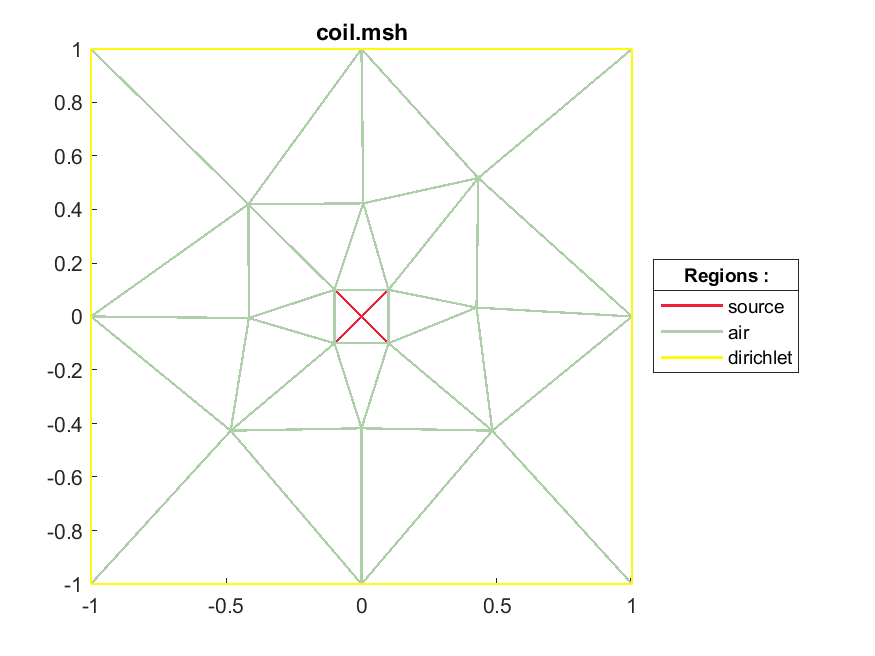
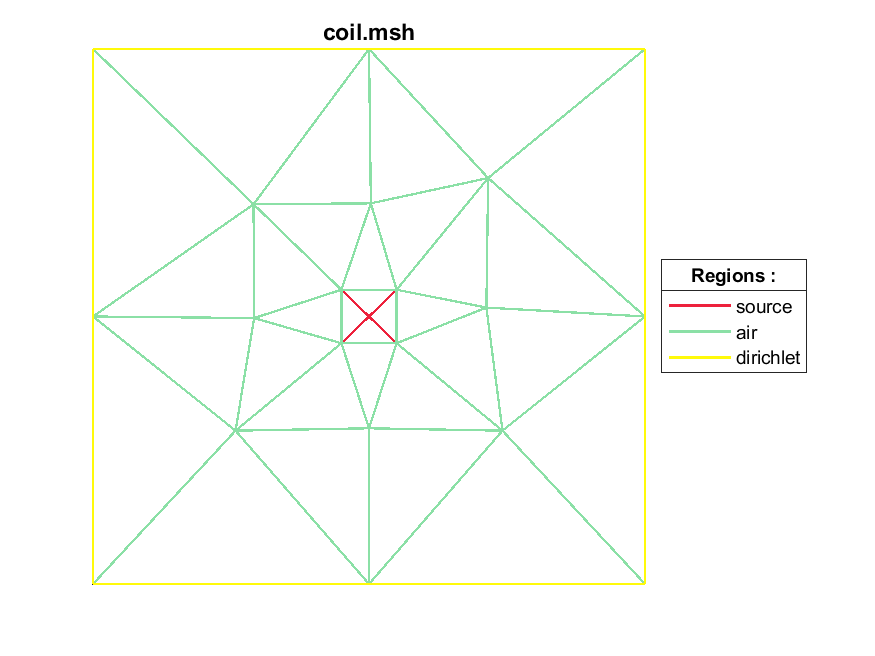
color & display_potential

diff --git a/matlab_scripts/main_functions/assemble.m b/matlab_scripts/main_functions/assemble.m
@@ -1,10 +1,14 @@
 function assemble(file_name)
+% After calling this function elements.K and elements.R have the right
+% dimension. Not done previously to have easier indexing.
+%
+
 disp('-Assembling solution matrix and calculating solution ...')
 tic
 respth = ['.\results\', file_name];
-load(respth)
+load(respth, 'elements', 'regions_c', 'n_nodes', 'n_elements')
 
-K = sparse(n_nodes, n_nodes);
+K = spalloc(n_nodes, n_nodes, 6*n_nodes);
 R = zeros(n_nodes,1);
 
 i_elem = 1;
@@ -19,6 +23,9 @@ for i_el=i_elem:n_elements
     
     K(i_N, i_N) = K(i_N, i_N) + elements(i_el).K(i_n, i_n);
     R(i_N) = R(i_N) + elements(i_el).R(i_n);
+    
+    elements(i_el).K = elements(i_el).K(i_n, i_n);
+    elements(i_el).R = elements(i_el).R(i_n);
     
 end
 
@@ -38,11 +45,11 @@ U(u_unknown) = U_unknown;
 U(u_known) = U_known;
 
 figure;surface(1:size(K,1),size(K,1):-1:1,K,K);colormap(bluewhitered);shading flat 
-eigenvals = eigs(K);
+eigenvals = eig(full(K)); % to be fixed
 condition_number = max(abs(eigenvals))/min(abs(eigenvals));
 disp(['Condition Number: ',num2str(condition_number)]);
 
-save(respth, 'U', 'K', 'R','condition_number', '-append'); 
+save(respth, 'elements', 'U', 'K', 'R', 'condition_number', '-append'); 
 
 disp(['  Finished (Elapsed time : ', num2str(toc) ' s)'])
 end

diff --git a/matlab_scripts/classes/Regions.m b/matlab_scripts/classes/Regions.m
@@ -8,6 +8,7 @@ classdef Regions
         predef_colors =  {[255, 250, 10], [22, 95, 229], [237, 33, 60]};
         colors = containers.Map('KeyType', 'char', 'ValueType', 'any');
         dir_codes = [];
+        colrs = [61, 210, 1, 32]
     end
     
     methods
@@ -46,6 +47,7 @@ classdef Regions
         function obj = fill_color_map(obj)
             n_keys = length(obj.regs);
             keys_c = keys(obj.regs);
+            i_clr = 1;
             for i_key = 1:n_keys
                 clr_set = 0;
                 for i_pred = 1:3
@@ -55,7 +57,8 @@ classdef Regions
                     end
                 end
                 if(~clr_set)
-                    obj.colors(keys_c{i_key}) = clr()/255;
+                    obj.colors(keys_c{i_key}) = clr(obj.colrs(i_clr))/255;
+                    i_clr = i_clr + 1;
                 end
             end
         end

diff --git a/matlab_scripts/main_functions/display_mesh.m b/matlab_scripts/main_functions/display_mesh.m
@@ -3,7 +3,8 @@ function display_mesh(file_name, do_print)
 plt_pth = '.\plots\';
 if(nargin < 2 || isempty(do_print)), do_print = 0; end
 
-load(['.\results\', file_name])
+respth = ['.\results\', file_name];
+load(respth)
 lgnd = cell(n_regions, 1);
 legend_pick = gobjects(size(lgnd));
 
@@ -58,6 +59,7 @@ title([file_name, '.msh'], 'interpreter', 'none')
 lgd = legend(legend_pick(1:i_lgnd-1), lgnd(1:i_lgnd-1),...
     'location', 'eastoutside', 'interpreter', 'none');
 title(lgd, 'Regions : ')
+set(gca,'YTick',[], 'XTick',[]);
 if(do_print)
     if(exist(plt_pth, 'dir') ~= 7)
         mkdir(plt_pth)
@@ -65,5 +67,6 @@ if(do_print)
     print([plt_pth, file_name, '_mesh'], '-dpng')
 end
 
+save(respth, 'triangles', 'lines', '-append')
 
 

diff --git a/matlab_scripts/main_functions/set_up_elements.m b/matlab_scripts/main_functions/set_up_elements.m
@@ -3,7 +3,8 @@ function set_up_elements(file_name)
 disp('-Calculating element matrices ...')
 tic
 respth = ['.\results\', file_name];
-load(respth)
+load(respth, 'elements', 'regions_c', 'n_nodes', 'n_elements',...
+    'nodes', 'nodes_prop', 'element_r')
 
 i_elem = 1;
 while(elements(i_elem).type == 1)
@@ -17,9 +18,7 @@ for i_el = i_elem:n_elements
         regions_c, element_r(i_el));
 end
 
-save(respth, 'regions', 'nodes', 'elements',...
-    'n_regions', 'n_nodes', 'n_elements', 'element_r', ...
-    'nodes_prop', 'n_sys', 'regions_c');
+save(respth, 'elements', '-append');
 
 disp(['  Finished (Elapsed time : ', num2str(toc) ' s)'])
 end

diff --git a/matlab_scripts/solver_functions/calc_element_RK.m b/matlab_scripts/solver_functions/calc_element_RK.m
@@ -1,6 +1,6 @@
 function [K,R,U,n] = calc_element_RK(nodes, nodes_prop, element, regions_c, elem_tag)
 
-mu_0 = 1257e-9;
+mu_0 = 1.2566e-06;
 kmn = @(k, b, c) k(1)*b(1)*b(2) + k(2)*c(1)*c(2);
 rm = @(f,A) f*A/3;
 
@@ -8,10 +8,10 @@ rm = @(f,A) f*A/3;
 
 if(regions_c.is_source(elem_tag)) %if region is source
     f = regions_c.get_param(elem_tag); % Stromdichte J
-    k1 = mu_0; % \mu of copper of source
+    k1 = 1/mu_0; % \mu of copper of source
 else
     f = 0;
-    k1 = regions_c.get_param(elem_tag);
+    k1 = 1/(regions_c.get_param(elem_tag)*mu_0); % 1/(mu_r * mu_0)
 end
 %k1 = 1/k1; % to get reluctance from \mu
 k = [k1 k1];

diff --git a/matlab_scripts/helper_functions/clr.m b/matlab_scripts/helper_functions/clr.m
@@ -64,6 +64,7 @@ function [varargout] = clr(varargin)
    
 % color list
 color_list = {  ...  
+166, 232, 250, 'bleu';
 200, 186, 128, 'green_beige';
 206, 177, 129, 'pale_beige';
 210, 173, 107, 'sand_yellow';
@@ -123,6 +124,7 @@ color_list = {  ...
 059, 059, 049, 'grey_olive';
 046, 055, 037, 'bottle_green';
 049, 047, 032, 'green';
+139, 224, 166, 'best_green';
 036, 052, 039, 'fir_green';
 065, 110, 050, 'grass_green';
 104, 127, 088, 'reseda_green';

diff --git a/matlab_scripts/main_functions/display_potentials.m b/matlab_scripts/main_functions/display_potentials.m
@@ -1,0 +1,15 @@
+function display_potentials(file_name)
+disp('-Assembling solution matrix and calculating solution ...')
+respth = ['.\results\', file_name];
+load(respth, 'U', 'triangles', 'nodes')
+tri = triangulation(triangles, [nodes.x]', [nodes.y]', U);
+
+figure
+trisurf(tri)
+colorbar
+title([file_name, '.msh Potential'])
+xlabel('x')
+ylabel('y')
+zlabel('A')
+
+end

diff --git a/matlab_scripts/main.m b/matlab_scripts/main.m
@@ -11,3 +11,4 @@ file_name = parse_gmesh();
 display_mesh(file_name,1)
 set_up_elements(file_name)
 assemble(file_name)
+display_potentials(file_name)
